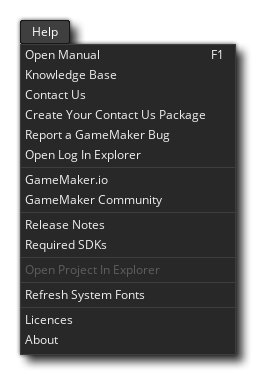
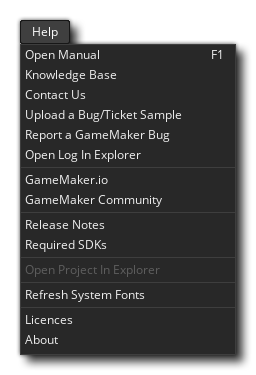
docs(general): help menu - upload package - fix

Changed region(s): [[0.0938, 0.2933, 0.8125, 0.3227]]

diff --git a/Manual/contents/IDE_Navigation/Menus/The_Help_Menu.htm b/Manual/contents/IDE_Navigation/Menus/The_Help_Menu.htm
@@ -22,6 +22,7 @@
     <li><strong>Knowledge Base</strong> - This will take you to the <a href="https://help.gamemaker.io/hc/en-us/categories/204246668-GameMaker-Studio-2"><span data-keyref="GameMaker Name">GameMaker</span> Knowledge Base</a> where you can find articles on platform setup, known issues, using <span data-keyref="GameMaker Name">GameMaker</span> and a number of other things.</li>
     <li><strong>Contact Us</strong> - This takes you to the <a href="https://contact.gamemaker.io">Contact Us</a> page.</li>
     <li><strong>Upload a Bug/Ticket Sample</strong> - <span>This creates a sample package to which you can privately attach the current project as well as additional files <span>that could be useful (e.g. screenshots, videos or log files). </span><span><span>If you forgot to add a project to a bug report or a customer service ticket and you&#39;re asked to add one later, use this option to create that package.<br />
+            <br />
             Select whether you want to <strong>Privately attach this project</strong> and optionally <strong>Privately attach additional files</strong>, then p</span></span><span>ress the <strong>Submit </strong>button. </span>When the upload is successful a message is shown and you can click the button to copy the download link to the clipboard. <span>For more info on each option, hover over the question mark <strong>?</strong> next to it.</span></span><br />
       <img class="center" src="../../assets/Images/IDE_Input/Help_Menu_Bug_Report_Bug_Ticket_Sample.png" />
     </li>

diff --git a/Manual/contents/Setting_Up_And_Version_Information/Error_Reporting.htm b/Manual/contents/Setting_Up_And_Version_Information/Error_Reporting.htm
@@ -29,6 +29,7 @@
     As mentioned in the window, you should first check the list of <a href="https://github.com/YoYoGames/GameMaker-Bugs/issues">Known Issues</a> before submitting. You also have the possibility to report a <a href="https://github.com/YoYoGames/GameMaker-Bugs/security/policy">security vulnerability</a>.
   </p>
   <p class="note"><span data-conref="../assets/snippets/Tag_note.hts"> </span> Any files attached via the Bug Reporter are uploaded privately, only accessible by the <span data-keyref="GameMaker Name">GameMaker</span> team, even when the bug is public.</p>
+  <p class="note"><span data-conref="../assets/snippets/Tag_tip.hts"> </span> If you forgot to attach your project or any additional files with this dialog, you can use the <strong>Upload a Bug/Ticket Sample</strong> option in the <a href="../IDE_Navigation/Menus/The_Help_Menu.htm">Help menu</a> to upload those files and get a link that you can add to your issue.</p>
   <p>You can choose to include the current project by ticking the <strong>Include project</strong> checkbox. It is highly recommended that you provide a sample project that shows the issue as it provides important information to the <span data-keyref="GameMaker Name">GameMaker</span> team about your issue. A message will be shown asking to include the current package when you select a category related to the runner and the checkbox isn&#39;t ticked.<br />
     <br />
     Finally you can submit the report by clicking the <strong>Submit</strong> button.
